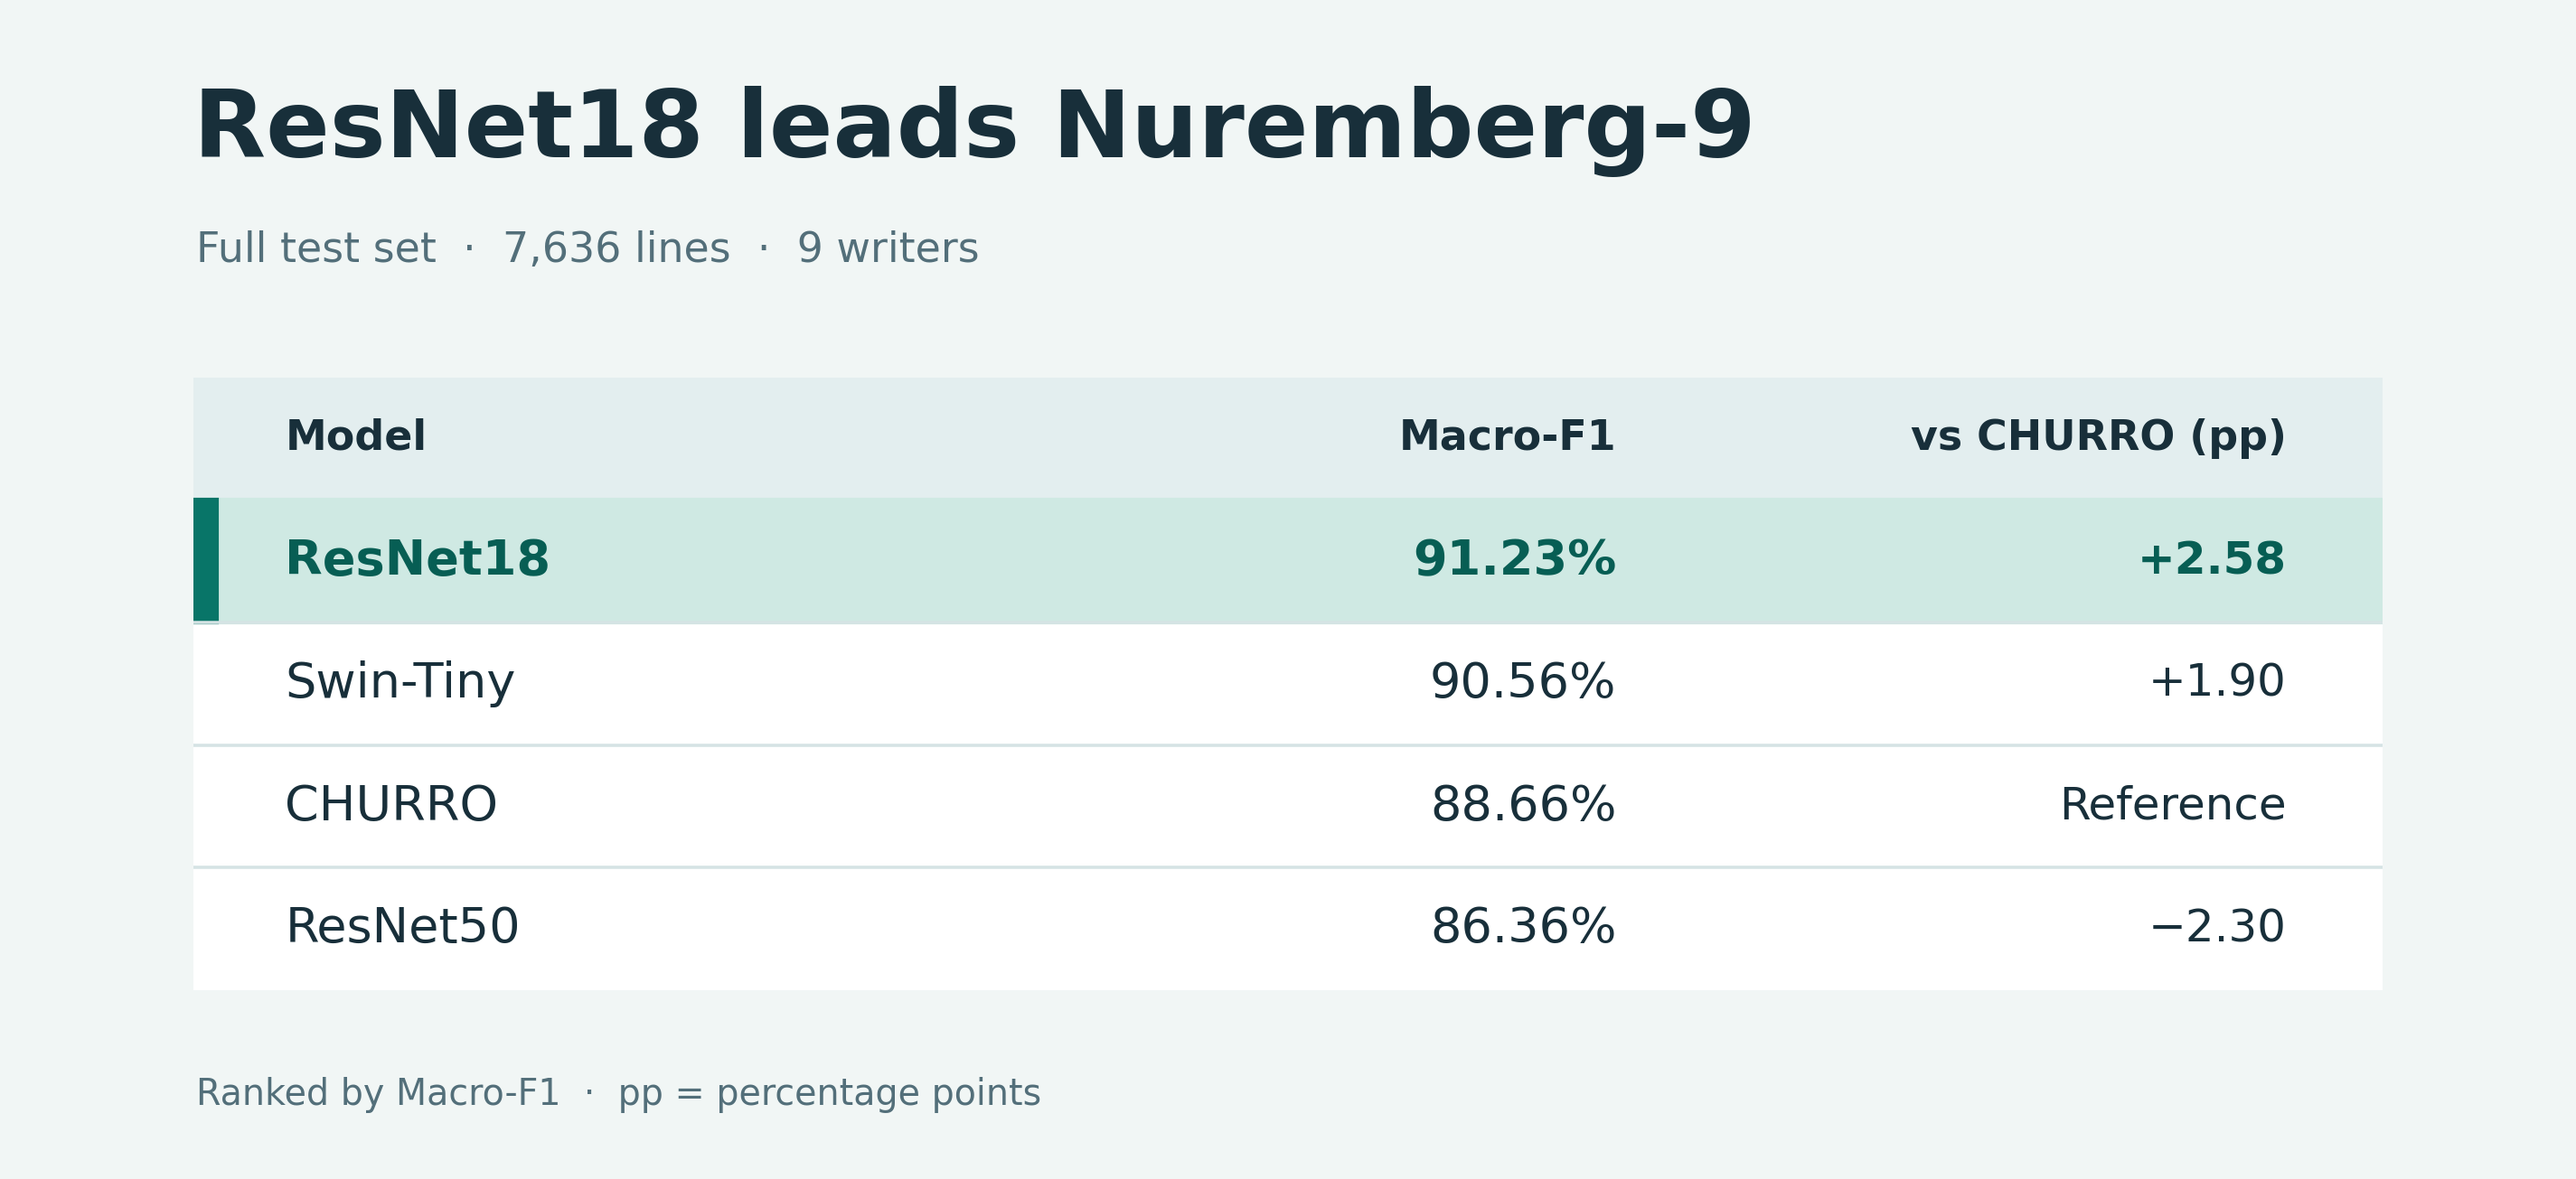
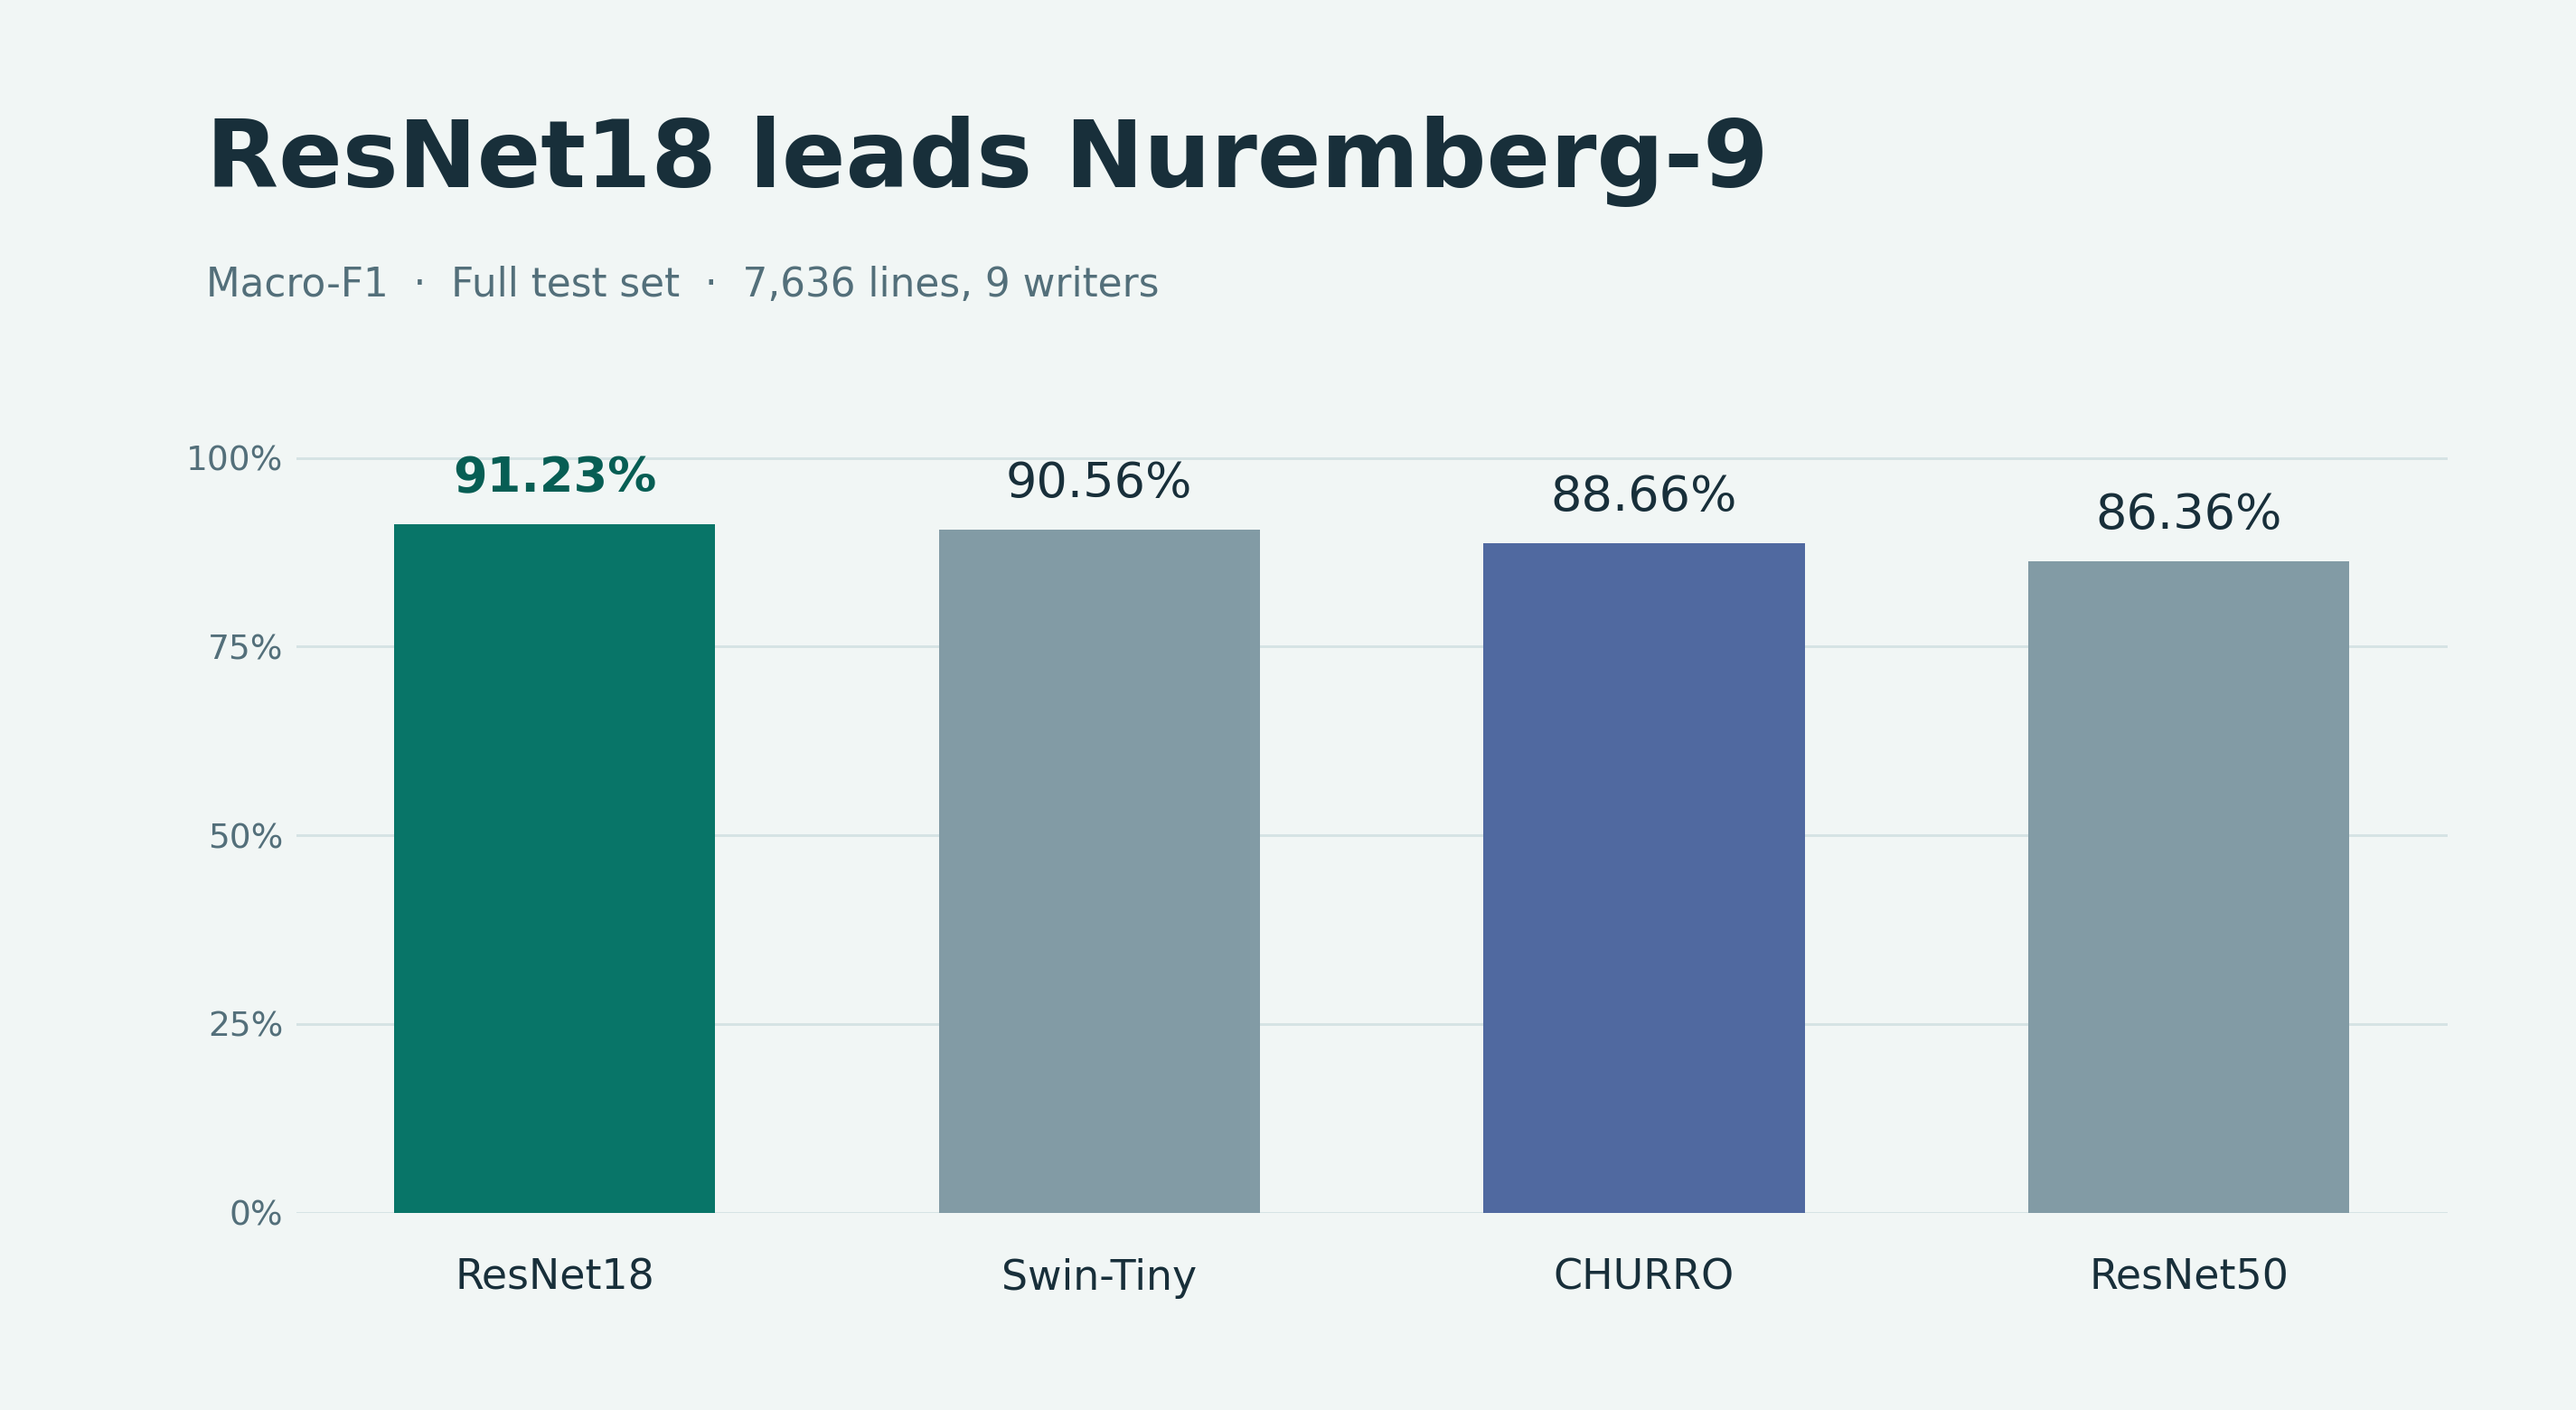
Replace final results table with four vertical bars

diff --git a/nuremberg-9/experiments/05_model_comparison/plot_vertical_comparison.py b/nuremberg-9/experiments/05_model_comparison/plot_vertical_comparison.py
@@ -9,7 +9,7 @@ from pathlib import Path
 import matplotlib
 matplotlib.use("Agg")
 import matplotlib.pyplot as plt  # noqa: E402
-from matplotlib.patches import Patch, Rectangle  # noqa: E402
+from matplotlib.patches import Patch  # noqa: E402
 from matplotlib.ticker import PercentFormatter  # noqa: E402
 import numpy as np  # noqa: E402
 
@@ -64,34 +64,25 @@ def save(fig, output, name):
 def final_summary(scores, output):
     order = sorted(MODELS, key=lambda model: scores["models"][model]["macro_f1"], reverse=True)
     names = dict(zip(MODELS, NAMES, strict=True))
-    winner = order[0]
-    fig = plt.figure(figsize=(9.5, 4.35), facecolor=PAPER)
-    fig.text(.075, .867, f"{names[winner]} leads Nuremberg-9", color=INK, fontsize=25, weight="bold")
-    fig.text(.076, .778, f"Full test set  ·  {scores['n_test_lines']:,} lines  ·  {len(scores['scribes'])} writers",
-             color=MUTED, fontsize=11)
-    ax = fig.add_axes((.075, .16, .85, .52))
-    ax.set(xlim=(0, 1), ylim=(0, 5))
-    ax.axis("off")
-    ax.add_patch(Rectangle((0, 0), 1, 5, color="white"))
-    ax.add_patch(Rectangle((0, 4), 1, 1, color="#e3eeef"))
-    ax.add_patch(Rectangle((0, 3), 1, 1, color="#cfe9e3"))
-    ax.add_patch(Rectangle((0, 3), .011, 1, color=COLORS[1]))
-    for pos, title, align in ((.042, "Model", "left"), (.65, "Macro-F1", "right"),
-                              (.956, "vs CHURRO (pp)", "right")):
-        ax.text(pos, 4.5, title, ha=align, va="center", color=INK, fontsize=11, weight="bold")
-    for index, model in enumerate(order):
-        y = 3.5 - index
-        score = scores["models"][model]["macro_f1"]
-        delta = scores["differences_from_churro_pp"].get(model)
-        gap = f"{delta['macro_f1']:+.2f}".replace("-", "−") if delta else "Reference"
-        weight = "bold" if index == 0 else "normal"
-        color = "#075e54" if index == 0 else INK
-        ax.text(.042, y, names[model], va="center", color=color, fontsize=13, weight=weight)
-        ax.text(.65, y, f"{score:.2%}", ha="right", va="center", color=color, fontsize=13, weight=weight)
-        ax.text(.956, y, gap, ha="right", va="center", color=color, fontsize=12, weight=weight)
-        if index < len(order) - 1:
-            ax.hlines(y - .5, 0, 1, color=GRID, lw=.85)
-    fig.text(.076, .063, "Ranked by Macro-F1  ·  pp = percentage points", color=MUTED, fontsize=9.5)
+    heights = [100 * scores["models"][model]["macro_f1"] for model in order]
+    fig, ax = plt.subplots(figsize=(9.5, 5.2), facecolor=PAPER)
+    fig.text(.08, .867, f"{names[order[0]]} leads Nuremberg-9", fontsize=25, weight="bold", color=INK)
+    fig.text(.08, .79,
+             f"Macro-F1  ·  Full test set  ·  {scores['n_test_lines']:,} lines, {len(scores['scribes'])} writers",
+             fontsize=10.5, color=MUTED)
+    fig.subplots_adjust(left=.115, right=.95, top=.718, bottom=.14)
+    axes_style(ax)
+    ax.set_ylim(0, 108)
+    percentage_axis(ax, range(0, 101, 25))
+    ax.set_xticks(range(len(order)), [names[model] for model in order])
+    ax.tick_params(axis="x", pad=12, labelcolor=INK, labelsize=11)
+    colors = [COLORS[1] if i == 0 else COLORS[0] if model == "churro" else "#829ba5"
+              for i, model in enumerate(order)]
+    bars = ax.bar(range(len(order)), heights, width=.59, color=colors)
+    labels = ax.bar_label(bars, labels=[f"{score:.2f}%" for score in heights], padding=6,
+                          color=INK, fontsize=13)
+    labels[0].set_weight("bold")
+    labels[0].set_color("#075e54")
     save(fig, output, "00-final-sonuc")
 
 

diff --git a/README.md b/README.md
@@ -2,7 +2,7 @@
 
 Whole-line writer identification on Nuremberg Letterbooks with CHURRO, ResNet18, ResNet50 and Swin-Tiny. All four were evaluated on the same 7,636 test lines. The CHURRO visual encoder was frozen and only its classifier was trained. The three ImageNet-initialized baselines were fine-tuned on Nuremberg.
 
-![Final result table. ResNet18 leads with 91.23% Macro-F1.](reports/comparison/00-final-sonuc.png)
+![Final Macro-F1 bar chart. ResNet18 leads with 91.23%.](reports/comparison/00-final-sonuc.png)
 
 [All vertical figures](reports/comparison/) · [Original Macro-F1 overview](reports/comparison/metrics/macro_f1_overview.png)
 

diff --git a/reports/comparison/README.md b/reports/comparison/README.md
@@ -1,8 +1,8 @@
 # Comparison figures
 
-![Final result table ranked by Macro-F1](00-final-sonuc.png)
+![Final ranking shown as vertical Macro-F1 bars](00-final-sonuc.png)
 
-[Download the final table as SVG](00-final-sonuc.svg)
+[Download the final bar chart as SVG](00-final-sonuc.svg)
 
 | Figure | PNG | SVG |
 |---|---|---|
